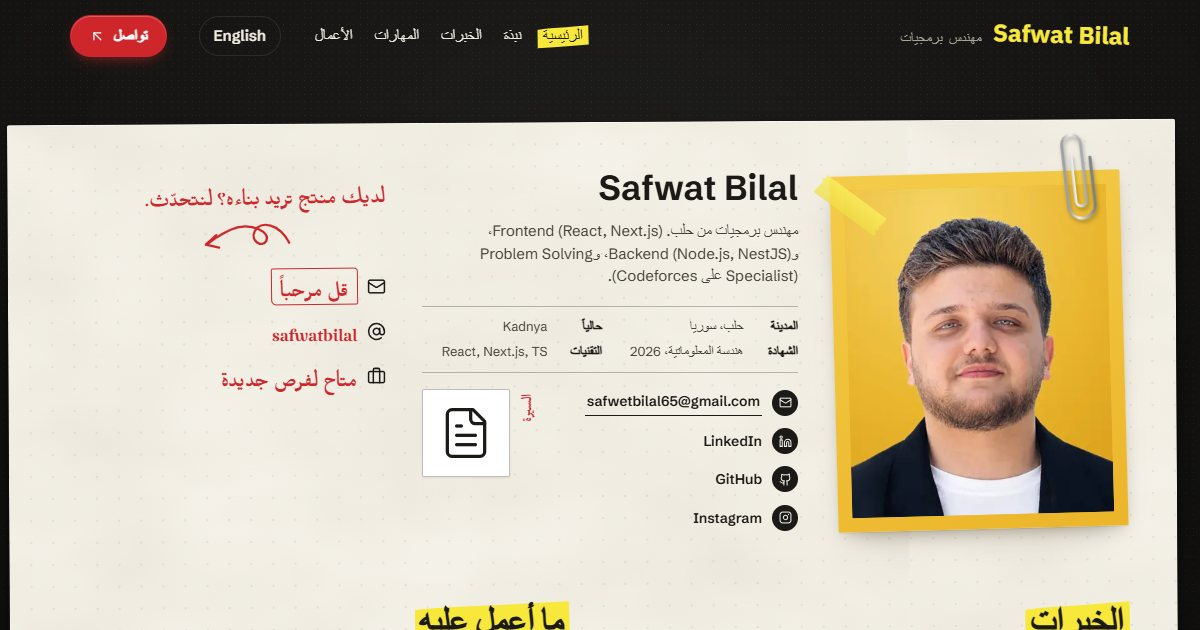
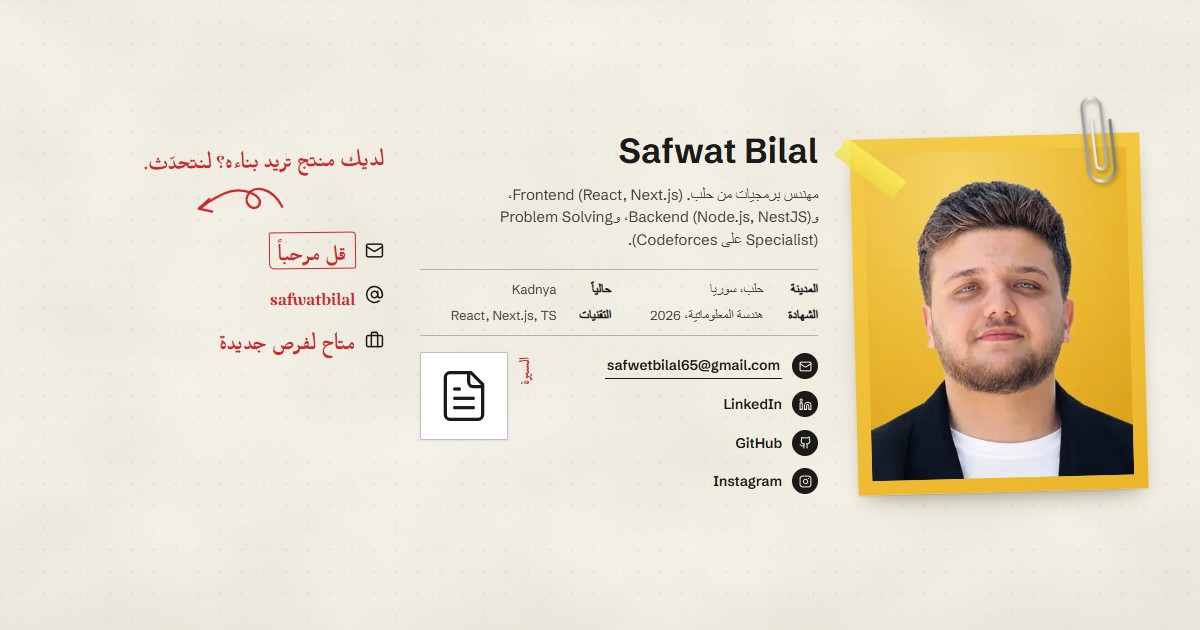
feat: add AZ1 Holding (freelance 3D site) as project 06
Screenshots, logo, EN/AR case study and OG images. Also includes pending local edits (tilt, portrait, work card, globals, layout, seo, home OG images).

diff --git a/src/content/ar.ts b/src/content/ar.ts
@@ -242,6 +242,11 @@ export const ar: Dictionary = {
     dashboard: "Dashboard صاحب المحتوى: الإيرادات، والطلاب، ونسبة التحويل، ورصيد الـ AI",
     "website-templates": "قوالب المواقع، المجانية والمدفوعة",
     "roles-permissions": "إدارة الأدوار والصلاحيات (Roles & Permissions)",
+    hero: "الصفحة الرئيسية: الشعار ثلاثي الأبعاد والـ Hero",
+    sectors: "القطاعات، ولكل قطاع مشهد 3D خاص به",
+    "sector-technology": "مشهد قطاع Technology & Innovation",
+    global: "قسم Global perspective مع كرة أرضية 3D",
+    contact: "صفحة التواصل",
   },
   projects: {
     kadnya: {
@@ -439,6 +444,36 @@ export const ar: Dictionary = {
         ],
         notes: [],
         outcome: "يعمل على turbo-type-jq2u.vercel.app.",
+      },
+    },
+    az1: {
+      name: "AZ1 Holding",
+      oneLiner: "موقع ثلاثي الأبعاد لمجموعة استثمار دولية، فيه مشاهد WebGL تفاعلية تتغيّر مع التمرير.",
+      myPart: "مشروع Freelance. بنيت الموقع كاملاً: تطبيق Next.js والمشاهد ثلاثية الأبعاد.",
+      role: "مشروع Freelance",
+      period: "3D web",
+      place: "",
+      visualAlt: "الصفحة الرئيسية لموقع AZ1 Holding مع الشعار ثلاثي الأبعاد",
+      caseStudy: {
+        summary: "مشروع Freelance بنيته من البداية للنهاية: موقع AZ1 Holding، وهي مجموعة استثمار دولية، مع مشاهد 3D مبنية بـ Three.js.",
+        meta: [
+          { label: "الدور", value: "Freelance، بنيت الموقع كاملاً" },
+          { label: "التقنيات", value: "Next.js, React Three Fiber (Three.js), Lenis" },
+        ],
+        links: [{ label: "az1-holding-3d.vercel.app", href: "https://az1-holding-3d.vercel.app" }],
+        product:
+          "AZ1 Holding مجموعة استثمار دولية تعمل في التعدين، والطاقة، والتمويل، والأصول الرقمية، والعقارات، والتكنولوجيا. يعرض الموقع المجموعة، وطريقة عملها، وقطاعاتها الستة، ومراحل العمل، ومحفظتها، وشبكة شركائها، وينتهي بصفحة تواصل وطلب شراكة.",
+        builtHeading: "ماذا يتضمّن",
+        built: [
+          { title: "شعار 3D", text: "شعار المجموعة كمجسّم ثلاثي الأبعاد في الـ Hero، يرافق الصفحة أثناء التمرير." },
+          { title: "مشهد لكل قطاع", text: "ستة قطاعات، لكلٍّ منها مشهد 3D خاص، تربط بينها خطوط متحرّكة." },
+          { title: "قصة تُروى بالتمرير", text: "تمرير سلس بـ Lenis، والمشاهد ثلاثية الأبعاد تتحرّك مع موضع التمرير." },
+          { title: "منظور عالمي", text: "كرة أرضية 3D بشكل wireframe تعبّر عن توجّه المجموعة الدولي." },
+          { title: "الصوت", text: "زر لتشغيل صوت خلفية هادئ في زاوية كل صفحة." },
+          { title: "الصفحات", text: "الرئيسية، ومن نحن، والتواصل مع طلب شراكة، وسياسة الخصوصية، وشروط الاستخدام." },
+        ],
+        notes: [],
+        outcome: "يعمل على az1-holding-3d.vercel.app.",
       },
     },
   },

diff --git a/src/components/tilt.tsx b/src/components/tilt.tsx
@@ -1,0 +1,80 @@
+"use client";
+
+import { usePathname } from "next/navigation";
+import { useEffect } from "react";
+
+// 3D tilt for [data-tilt3d] elements (value = max angle in degrees). With a mouse they lean
+// toward the pointer; on phones, elements that also carry data-tilt3d-phone follow the phone's
+// tilt (Android only: iOS asks for a permission prompt, which isn't worth it for decoration).
+// Writes --rx / --ry (angles) and --mx / --my (glare position) and toggles .is-tilt.
+export function Tilt() {
+  const pathname = usePathname();
+
+  useEffect(() => {
+    if (matchMedia("(prefers-reduced-motion: reduce)").matches) return;
+    const els = [...document.querySelectorAll<HTMLElement>("[data-tilt3d]")];
+    if (!els.length) return;
+
+    const clamp = (v: number) => Math.max(-1, Math.min(1, v));
+    // x, y in -1..1 from the element's centre
+    const set = (el: HTMLElement, x: number, y: number) => {
+      const max = Number(el.dataset.tilt3d) || 8;
+      el.style.setProperty("--ry", `${(x * max).toFixed(2)}deg`);
+      el.style.setProperty("--rx", `${(-y * max).toFixed(2)}deg`);
+      el.style.setProperty("--mx", `${((x + 1) * 50).toFixed(1)}%`);
+      el.style.setProperty("--my", `${((y + 1) * 50).toFixed(1)}%`);
+      el.classList.add("is-tilt");
+    };
+    const reset = (el: HTMLElement) => {
+      el.classList.remove("is-tilt");
+      for (const p of ["--rx", "--ry", "--mx", "--my"]) el.style.removeProperty(p);
+    };
+
+    if (matchMedia("(hover: hover) and (pointer: fine)").matches) {
+      const offs = els.map((el) => {
+        let raf = 0;
+        const move = (e: PointerEvent) => {
+          cancelAnimationFrame(raf);
+          raf = requestAnimationFrame(() => {
+            const r = el.getBoundingClientRect();
+            set(el, clamp(((e.clientX - r.left) / r.width) * 2 - 1), clamp(((e.clientY - r.top) / r.height) * 2 - 1));
+          });
+        };
+        const leave = () => {
+          cancelAnimationFrame(raf);
+          reset(el);
+        };
+        el.addEventListener("pointermove", move);
+        el.addEventListener("pointerleave", leave);
+        return () => {
+          leave();
+          el.removeEventListener("pointermove", move);
+          el.removeEventListener("pointerleave", leave);
+        };
+      });
+      return () => offs.forEach((off) => off());
+    }
+
+    const phone = els.filter((el) => el.hasAttribute("data-tilt3d-phone"));
+    if (!phone.length || typeof DeviceOrientationEvent === "undefined" || "requestPermission" in DeviceOrientationEvent) return;
+    let base: [number, number] | null = null;
+    let raf = 0;
+    const orient = (e: DeviceOrientationEvent) => {
+      if (e.beta == null || e.gamma == null) return;
+      // the angle the phone is held at when the page opens counts as "flat"
+      base ??= [e.beta, e.gamma];
+      const x = clamp((e.gamma - base[1]) / 18);
+      const y = clamp((e.beta - base[0]) / 18);
+      cancelAnimationFrame(raf);
+      raf = requestAnimationFrame(() => phone.forEach((el) => set(el, x, y)));
+    };
+    addEventListener("deviceorientation", orient);
+    return () => {
+      removeEventListener("deviceorientation", orient);
+      cancelAnimationFrame(raf);
+      phone.forEach(reset);
+    };
+  }, [pathname]);
+
+  return null;
+}

diff --git a/src/app/[locale]/globals.css b/src/app/[locale]/globals.css
@@ -121,6 +121,7 @@
 
 /* ---------- Base ---------- */
 html {
+  overflow-x: clip;
   -webkit-text-size-adjust: 100%;
   scroll-padding-top: 88px;
   scroll-behavior: smooth;
@@ -138,7 +139,7 @@ body {
   background-position: 0 0, 3px 5px;
   -webkit-font-smoothing: antialiased;
   text-rendering: optimizeLegibility;
-  overflow-x: hidden;
+  overflow-x: clip;
 }
 body::before {
   content: "";
@@ -846,6 +847,35 @@ main {
 .id-main {
   min-width: 0;
 }
+
+/* ---------- 3D tilt (components/tilt.tsx sets --rx/--ry/--mx/--my and .is-tilt) ---------- */
+.tilt3d {
+  transform: perspective(900px) rotateX(var(--rx, 0deg)) rotateY(var(--ry, 0deg));
+  transition: transform 600ms var(--ease-out);
+}
+.tilt3d.is-tilt {
+  transition-duration: 140ms;
+}
+.tilt3d .portrait {
+  transition: transform 600ms var(--ease-out), box-shadow 400ms var(--ease-out);
+}
+.tilt3d.is-tilt .portrait {
+  box-shadow: var(--sh-card-hover);
+}
+.glare {
+  position: absolute;
+  inset: 0;
+  z-index: 1;
+  pointer-events: none;
+  border-radius: inherit;
+  background: radial-gradient(circle at var(--mx, 50%) var(--my, 30%), rgba(255, 255, 255, 0.42), transparent 58%);
+  mix-blend-mode: soft-light;
+  opacity: 0;
+  transition: opacity 400ms var(--ease-out);
+}
+.is-tilt .glare {
+  opacity: 1;
+}
 .id-main h1 {
   font-size: clamp(1.7rem, 2.9vw, 2.55rem);
   font-weight: 650;
@@ -1442,10 +1472,37 @@ main {
   inset: 0;
   z-index: 1;
 }
+/* dog-ear: the bottom inline-end corner folds over on hover */
+.wcard .curl {
+  position: absolute;
+  z-index: 2;
+  inset-inline-end: 0;
+  bottom: 0;
+  width: 0;
+  height: 0;
+  pointer-events: none;
+  background: linear-gradient(to top left, var(--paper) 49%, rgba(60, 45, 20, 0.28) 50%, #e6dfcd 54%, var(--card) 100%);
+  border-top-left-radius: 3px;
+  filter: drop-shadow(-2px -2px 2px rgba(60, 45, 20, 0.14));
+  transition: width 320ms var(--ease-out), height 320ms var(--ease-out);
+}
+[dir="rtl"] .wcard .curl {
+  background: linear-gradient(to top right, var(--paper) 49%, rgba(60, 45, 20, 0.28) 50%, #e6dfcd 54%, var(--card) 100%);
+  border-top-left-radius: 0;
+  border-top-right-radius: 3px;
+  filter: drop-shadow(2px -2px 2px rgba(60, 45, 20, 0.14));
+}
 @media (hover: hover) and (pointer: fine) {
   .wcard:hover {
-    transform: rotate(0deg) translateY(-6px);
+    transform: perspective(1000px) rotateX(var(--rx, 0deg)) rotateY(var(--ry, 0deg)) translateY(-6px);
     box-shadow: var(--sh-card-hover);
+  }
+  .wcard.is-tilt {
+    transition-duration: 140ms, 320ms;
+  }
+  .wcard:hover .curl {
+    width: 30px;
+    height: 30px;
   }
   .wcard:hover .ph img.shot {
     transform: scale(1.035);
@@ -2458,4 +2515,9 @@ main {
   clip-path: var(--clip-strip);
   padding: 18px 34px 20px 28px;
   font-size: 1.05rem;
+}
+@media (max-width: 720px) {
+  .st-6 {
+    inset: auto;
+  }
 }

diff --git a/src/content/en.ts b/src/content/en.ts
@@ -245,6 +245,11 @@ export const en: Dictionary = {
     dashboard: "Creator dashboard: revenue, students, conversion and AI credits",
     "website-templates": "Website themes, free and paid",
     "roles-permissions": "Roles & permissions management",
+    hero: "Home: the 3D logo and the hero",
+    sectors: "Sectors, each with its own 3D scene",
+    "sector-technology": "Technology & Innovation sector scene",
+    global: "Global perspective, with a 3D globe",
+    contact: "Contact page",
   },
   projects: {
     kadnya: {
@@ -448,6 +453,36 @@ export const en: Dictionary = {
         ],
         notes: [],
         outcome: "Live at turbo-type-jq2u.vercel.app.",
+      },
+    },
+    az1: {
+      name: "AZ1 Holding",
+      oneLiner: "A 3D website for an international investment group, with interactive WebGL scenes that change as you scroll.",
+      myPart: "Freelance project. I built the whole site: the Next.js app and the 3D scenes.",
+      role: "Freelance project",
+      period: "3D web",
+      place: "",
+      visualAlt: "AZ1 Holding home page with the 3D logo",
+      caseStudy: {
+        summary: "A freelance project I built end to end: the website of AZ1 Holding, an international investment group, with 3D scenes made in Three.js.",
+        meta: [
+          { label: "Role", value: "Freelance, built the whole site" },
+          { label: "Stack", value: "Next.js, React Three Fiber (Three.js), Lenis" },
+        ],
+        links: [{ label: "az1-holding-3d.vercel.app", href: "https://az1-holding-3d.vercel.app" }],
+        product:
+          "AZ1 Holding is an international investment group working across mining, energy, finance, digital assets, real estate and technology. The site presents the group, its approach, its six sectors, how it works, its portfolio and its partner network, and ends with a contact and partnership inquiry page.",
+        builtHeading: "What's in it",
+        built: [
+          { title: "3D logo", text: "The group's logo as a 3D object in the hero, carried through the page as you scroll." },
+          { title: "A scene for each sector", text: "Six sectors, each with its own 3D scene, linked by animated lines." },
+          { title: "Scroll-driven story", text: "Smooth scrolling with Lenis; the 3D scenes move with the scroll position." },
+          { title: "Global perspective", text: "A 3D wireframe globe for the group's international approach." },
+          { title: "Sound", text: "An ambient sound toggle in the corner of every page." },
+          { title: "Pages", text: "Home, About, Contact with a partnership inquiry, Privacy Policy and Terms of Use." },
+        ],
+        notes: [],
+        outcome: "Live at az1-holding-3d.vercel.app.",
       },
     },
   },

diff --git a/src/components/portrait.tsx b/src/components/portrait.tsx
@@ -10,16 +10,19 @@ import { PaperClip } from "./ui";
 export function Portrait({ name, initials }: { name: string; initials: string }) {
   const hasPhoto = existsSync(join(process.cwd(), "public", "portrait-yellow.jpg"));
   return (
-    <figure className="portrait rv">
-      <PaperClip className="pclip" />
-      <span className="tape yellow" aria-hidden="true" />
-      {hasPhoto ? (
-        <Image src="/portrait-yellow.jpg" alt={name} width={809} height={1080} priority sizes="290px" />
-      ) : (
-        <div className="mono-card" aria-hidden="true">
-          <b>{initials}</b>
-        </div>
-      )}
-    </figure>
+    <div className="tilt3d" data-tilt3d="10" data-tilt3d-phone="">
+      <figure className="portrait rv">
+        <PaperClip className="pclip" />
+        <span className="tape yellow" aria-hidden="true" />
+        {hasPhoto ? (
+          <Image src="/portrait-yellow.jpg" alt={name} width={809} height={1080} priority sizes="290px" />
+        ) : (
+          <div className="mono-card" aria-hidden="true">
+            <b>{initials}</b>
+          </div>
+        )}
+        <span className="glare" aria-hidden="true" />
+      </figure>
+    </div>
   );
 }

diff --git a/src/components/work-card.tsx b/src/components/work-card.tsx
@@ -10,8 +10,9 @@ import { LiveBadge, Tag } from "./ui";
 export function WorkCard({ p, d, locale }: { p: Project; d: Dictionary; locale: Locale }) {
   const shot = p.screenshots.find((s) => !s.phone) ?? p.screenshots[0];
   return (
-    <article className="wcard">
+    <article className="wcard" data-tilt3d="6">
       <span className="tape yellow" aria-hidden="true" />
+      <span className="curl" aria-hidden="true" />
       <div className="ph">
         {shot ? (
           <Image
@@ -27,6 +28,7 @@ export function WorkCard({ p, d, locale }: { p: Project; d: Dictionary; locale: 
             <Image src={p.logo} alt="" width={52} height={52} className="h-full w-full object-contain" />
           </span>
         )}
+        <span className="glare" aria-hidden="true" />
       </div>
       <div className="wcard-body">
         <div className="wcard-top">

diff --git a/src/content/shared.ts b/src/content/shared.ts
@@ -18,7 +18,7 @@ export const profile = {
   },
 } as const;
 
-export type ProjectSlug = "kadnya" | "tredro" | "nebu" | "suttor" | "turbotype";
+export type ProjectSlug = "kadnya" | "tredro" | "nebu" | "suttor" | "turbotype" | "az1";
 
 export type ProjectBase = {
   slug: ProjectSlug;
@@ -82,6 +82,16 @@ export const projectBases: ProjectBase[] = [
     href: "https://turbo-type-jq2u.vercel.app",
     hrefLabel: "turbo-type-jq2u.vercel.app",
     visual: "turbotype",
+  },
+  {
+    slug: "az1",
+    index: "06",
+    logo: "/logos/az1.svg",
+    tags: ["Next.js", "Three.js", "React Three Fiber", "3D"],
+    status: "live",
+    href: "https://az1-holding-3d.vercel.app",
+    hrefLabel: "az1-holding-3d.vercel.app",
+    visual: "az1",
   },
 ];
 

diff --git a/src/app/[locale]/layout.tsx b/src/app/[locale]/layout.tsx
@@ -4,6 +4,7 @@ import { notFound } from "next/navigation";
 import { Footer } from "@/components/footer";
 import { Header } from "@/components/header";
 import { Reveal } from "@/components/reveal";
+import { Tilt } from "@/components/tilt";
 import { getDictionary } from "@/content";
 import { profile, siteUrl } from "@/content/shared";
 import { dir, isLocale, locales } from "@/i18n/config";
@@ -102,6 +103,7 @@ export default async function RootLayout(props: LayoutProps<"/[locale]">) {
         {props.children}
         <Footer d={d} locale={locale} />
         <Reveal />
+        <Tilt />
       </body>
     </html>
   );

diff --git a/src/lib/seo.ts b/src/lib/seo.ts
@@ -3,7 +3,7 @@ import { getDictionary } from "@/content";
 import { profile } from "@/content/shared";
 import type { Locale } from "@/i18n/config";
 
-/** Social preview: a 1200x630 screenshot of the page header and top, taken from the built site (files in public/og). */
+/** Social preview: a 1200x630 shot of the home identity block only (no header or board), taken from the running site (files in public/og). */
 export function ogImage(locale: Locale, slug?: string) {
   const alt =
     locale === "ar"
